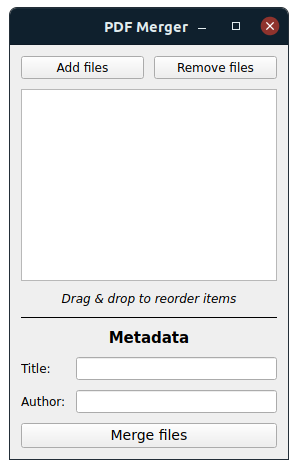
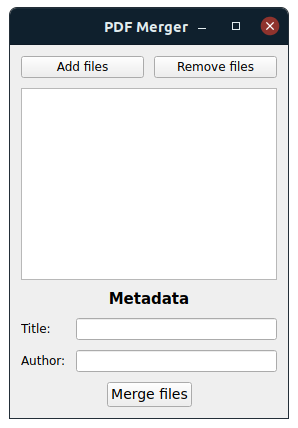
Moved to Qt6 because why not

diff --git a/merge-pdf.py b/merge-pdf.py
@@ -1,37 +1,36 @@
 #!/usr/bin/env python3
 # -*- coding: utf-8 -*-
 """
-Created on Sat Jul 16 16:30:52 2022
+Created on Sat Jul 16 21:35:15 2022
 
 @author: sarah
 """
 
 import sys, subprocess, os, platform
-from PyQt5.QtCore import Qt
-from PyQt5.QtWidgets import(
-    QWidget,
+from PyQt6.QtWidgets import (QWidget,
+    QPushButton, 
     QApplication,
     QVBoxLayout,
     QHBoxLayout,
+    QLabel,
+    QListWidget,
+    QAbstractItemView,
     QFormLayout,
     QLineEdit,
-    QLabel,
-    QPushButton,
-    QFrame,
-    QListWidget,
-    QFileDialog,
-    QAbstractItemView,
-    QMessageBox
-)
-from PyQt5.QtCore import pyqtSlot
+    QMessageBox,
+    QFileDialog)
+from PyQt6.QtCore import Qt
+from PyQt6.QtCore import pyqtSlot
 from PyPDF2 import PdfMerger
 from PyPDF2.errors import PdfReadError
 
 class Window(QWidget):
+
     def __init__(self):
         super().__init__()
         self.initUI()
-        
+
+
     def initUI(self):
         self.setWindowTitle("PDF Merger")
         
@@ -47,46 +46,43 @@ class Window(QWidget):
         button_rmfiles = QPushButton('Remove files', self)
         button_rmfiles.clicked.connect(self.remove_file)
         button_layout.addWidget(button_rmfiles)
-        
         outer_layout.addLayout(button_layout)
         
         # List Widget
         self.list_widget = QListWidget()
-        self.list_widget.setDragDropMode(QAbstractItemView.InternalMove)
+        self.list_widget.setDragDropMode(QAbstractItemView.DragDropMode.InternalMove)
+        self.list_widget.setToolTip('Drag & drop to reorder files')
         outer_layout.addWidget(self.list_widget)
-        label_hint = QLabel("Drag & drop to reorder items")
-        label_hint.setAlignment(Qt.AlignCenter)
-        label_hint.setStyleSheet("QLabel {font-style: italic;}")
-        outer_layout.addWidget(label_hint)
-        
-        # Separator line
-        sep = QFrame()
-        sep.setFrameShape(QFrame.HLine)
-        sep.setLineWidth(1)
-        outer_layout.addWidget(sep)
         
         # Metadata form
         form_layout = QFormLayout()
         label_metadata = QLabel("Metadata")
-        label_metadata.setAlignment(Qt.AlignCenter)
+        label_metadata.setAlignment(Qt.AlignmentFlag.AlignCenter)
         label_metadata.setStyleSheet("QLabel {font-size: 15px; font-weight: bold;}")
         form_layout.addRow(label_metadata)
         
         self.entry_title = QLineEdit(self)
+        self.entry_title.setToolTip("Set PDF metadata")
         self.entry_author = QLineEdit(self)
+        self.entry_author.setToolTip("Set PDF metadata")
         form_layout.addRow("Title:", self.entry_title)
         form_layout.addRow("Author:", self.entry_author)
         
         outer_layout.addLayout(form_layout)
         
         # Merge Button
+        merge_layout = QHBoxLayout()
         button_merge = QPushButton("Merge files", self)
         button_merge.setStyleSheet("QPushButton {font-size: 14px;}")
         button_merge.clicked.connect(self.merge_files)
-        outer_layout.addWidget(button_merge)
-        button_merge.adjustSize()
+        merge_layout.addStretch()
+        merge_layout.addWidget(button_merge)
+        merge_layout.addStretch()
+        
+        outer_layout.addLayout(merge_layout)
         
         self.setLayout(outer_layout)
+        self.show()
         
     def pdf_merge(self, files, outfile):
         merger = PdfMerger()
@@ -127,7 +123,7 @@ class Window(QWidget):
         if files:
             for num, file in enumerate(files):
                 self.list_widget.addItem(file)
-    
+                
     @pyqtSlot()
     def remove_file(self):
         selected_items = self.list_widget.selectedItems()
@@ -169,10 +165,12 @@ class Window(QWidget):
                 os.startfile(outfile)
             else:
                 subprocess.call(("xdg-open", outfile))
-        
 
-if __name__ == "__main__":
+def main():
     app = QApplication(sys.argv)
     window = Window()
-    window.show()
-    sys.exit(app.exec_())
+    sys.exit(app.exec())
+
+
+if __name__ == '__main__':
+    main()

diff --git a/README.md b/README.md
@@ -1,6 +1,6 @@
 # A simple tool to merge multiple PDF files
 
-This is essentially a Qt5 frontend for PyPDF2's PdfMerger. I needed this for reasons.
+This is essentially a Qt6 frontend for PyPDF2's PdfMerger. I needed this for reasons.
 Bookmarks are kept intact.
 
 It looks like this:
